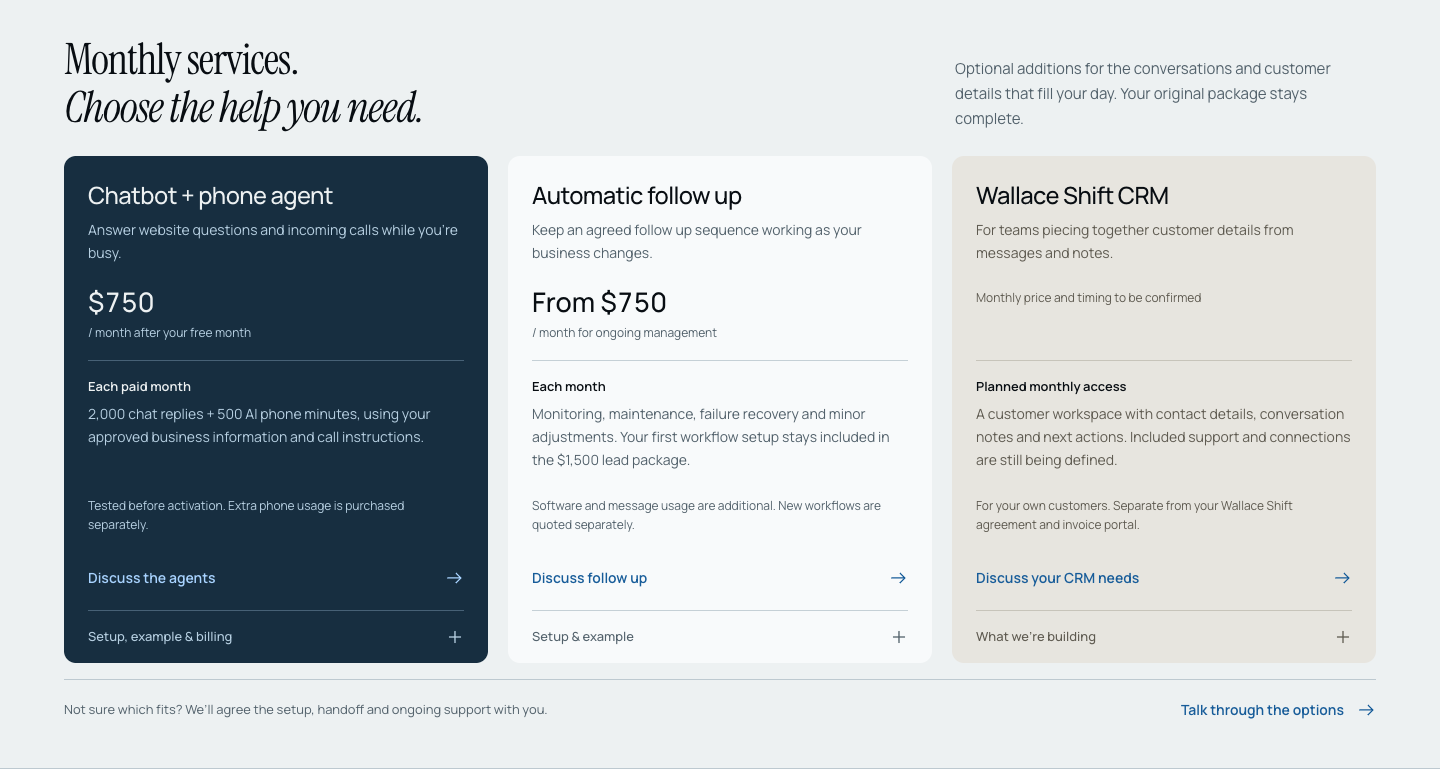
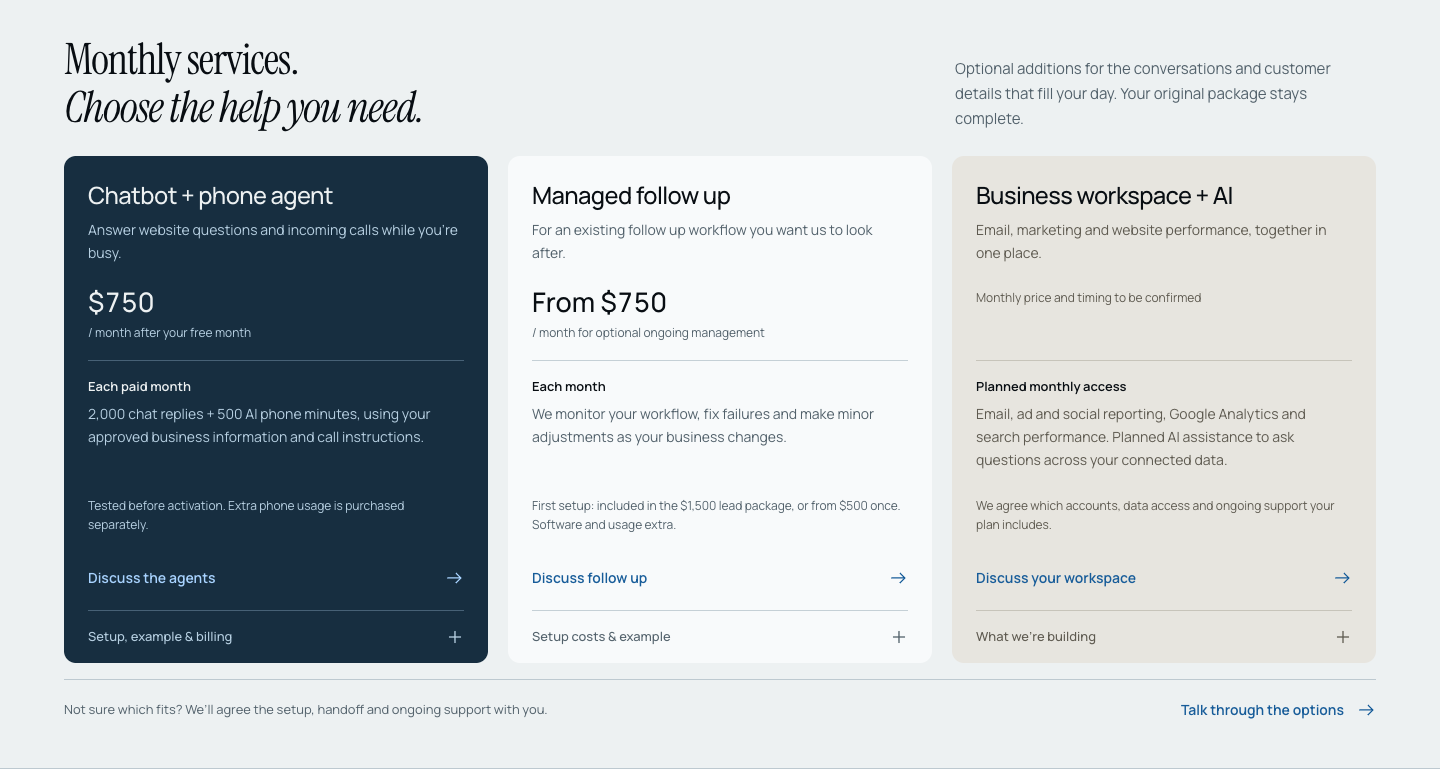
fix: distinguish follow-up setup from optional monthly management

diff --git a/prototypes/homepage/purchase/Upgrades.tsx b/prototypes/homepage/purchase/Upgrades.tsx
@@ -4,6 +4,7 @@ import { shiftHandoffHref } from '../../../src/lib/quizHandoff'
 import './upgrades.css'
 
 const managedAutomation = engagementGroups.find(group => group.id === 'automation')?.items.find(item => item.title === 'Managed automation')
+const followUpSetup = engagementGroups.find(group => group.id === 'automation')?.items.find(item => item.title === 'Follow-up setup')
 
 function Arrow() {
   return <svg width="20" height="20" viewBox="0 0 24 24" fill="none" stroke="currentColor" strokeWidth="1.5" aria-hidden="true"><path d="M4 12h16m-6-6 6 6-6 6" /></svg>
@@ -50,22 +51,24 @@ export default function Upgrades() {
           </article>
 
           <article className="monthly-services__tile" aria-labelledby="monthly-follow-up-heading">
-            <h3 id="monthly-follow-up-heading">Automatic follow up</h3>
-            <p className="monthly-services__need">Keep an agreed follow up sequence working as your business changes.</p>
+            <h3 id="monthly-follow-up-heading">Managed follow up</h3>
+            <p className="monthly-services__need">For an existing follow up workflow you want us to look after.</p>
             <div className="monthly-services__price">
               <strong>{managedAutomation ? `From $${managedAutomation.price}` : 'Quoted'}</strong>
-              <span>/ month for ongoing management</span>
+              <span>/ month for optional ongoing management</span>
             </div>
             <div className="monthly-services__value">
               <h4>Each month</h4>
-              <p>Monitoring, maintenance, failure recovery and minor adjustments. Your first workflow setup stays included in the $1,500 lead package.</p>
+              <p>We monitor your workflow, fix failures and make minor adjustments as your business changes.</p>
             </div>
-            <p className="monthly-services__boundary">Software and message usage are additional. New workflows are quoted separately.</p>
+            <p className="monthly-services__boundary">First setup: included in the $1,500 lead package, or {followUpSetup ? `from $${followUpSetup.price} once` : 'quoted separately'}. Software and usage extra.</p>
             <a className="monthly-services__link" href={shiftHandoffHref('automation-integration')}>Discuss follow up<Arrow /></a>
             <details className="monthly-services__details">
-              <summary>Setup & example<Plus /></summary>
+              <summary>Setup costs & example<Plus /></summary>
               <div className="monthly-services__detail-body">
-                <p>Before we start, we agree the messages, timing and when they stop, then test the workflow in compatible tools. Monthly management is optional.</p>
+                <p><strong>Setup without monthly management.</strong> Budget $500 to $1,000 once for a simple sequence in one existing tool, depending on scope. The $1,500 lead package already includes its first workflow setup.</p>
+                <p>After setup, you can manage it yourself. Software, message usage and any required hosting still have their own costs. The monthly management fee above applies only if you choose our ongoing monitoring and upkeep.</p>
+                <p>Setup includes agreed messages, timing, stop conditions, testing and a walkthrough for your team.</p>
                 <figure className="monthly-services__example">
                   <figcaption>Example sequence · illustrative</figcaption>
                   <ol className="monthly-services__sequence">
@@ -79,34 +82,28 @@ export default function Upgrades() {
             </details>
           </article>
 
-          <article className="monthly-services__tile monthly-services__tile--crm" aria-labelledby="monthly-crm-heading">
-            <h3 id="monthly-crm-heading">Wallace Shift CRM</h3>
-            <p className="monthly-services__need">For teams piecing together customer details from messages and notes.</p>
+          <article className="monthly-services__tile monthly-services__tile--workspace" aria-labelledby="monthly-workspace-heading">
+            <h3 id="monthly-workspace-heading">Business workspace + AI</h3>
+            <p className="monthly-services__need">Email, marketing and website performance, together in one place.</p>
             <div className="monthly-services__price">
               <span>Monthly price and timing to be confirmed</span>
             </div>
             <div className="monthly-services__value">
               <h4>Planned monthly access</h4>
-              <p>A customer workspace with contact details, conversation notes and next actions. Included support and connections are still being defined.</p>
+              <p>Email, ad and social reporting, Google Analytics and search performance. Planned AI assistance to ask questions across your connected data.</p>
             </div>
-            <p className="monthly-services__boundary">For your own customers. Separate from your Wallace Shift agreement and invoice portal.</p>
-            <a className="monthly-services__link" href={shiftHandoffHref('custom-web-app')}>Discuss your CRM needs<Arrow /></a>
+            <p className="monthly-services__boundary">We agree which accounts, data access and ongoing support your plan includes.</p>
+            <a className="monthly-services__link" href="/contact">Discuss your workspace<Arrow /></a>
             <details className="monthly-services__details">
               <summary>What we’re building<Plus /></summary>
               <div className="monthly-services__detail-body">
-                <p>CRM means customer relationship manager: one place to see who needs help, what has been discussed and what your team should do next.</p>
+                <p>We’re bringing email tools, paid advertising, social reporting, Google Analytics and Google Search Console into a shared workspace. The next step is an AI assistant that can answer questions using the information you connect.</p>
                 <figure className="monthly-services__example">
-                  <figcaption>Planned experience · fictional record</figcaption>
-                  <div className="monthly-services__record">
-                    <strong>Alex Morgan</strong><p>Asked about a kitchen remodel</p>
-                    <dl>
-                      <div><dt>Last conversation</dt><dd>Needs an estimate</dd></div>
-                      <div><dt>Next action</dt><dd>Arrange a site visit</dd></div>
-                      <div><dt>Assigned to</dt><dd>Jamie</dd></div>
-                    </dl>
-                  </div>
+                  <figcaption>Planned AI experience · illustrative</figcaption>
+                  <blockquote>“How are our ads and website performing this month?”</blockquote>
+                  <p>The intended assistant compares the available reports, highlights changes and points you to the data behind its answer.</p>
                 </figure>
-                <p>Share how you manage customers today. Availability, migration, connections and ongoing support will be confirmed before the CRM is offered.</p>
+                <p>Tell us which accounts you want to bring together. Supported connections, customer access and AI assistance will be confirmed before your service starts. Answers depend on the data available and the permissions you allow.</p>
               </div>
             </details>
           </article>

diff --git a/prototypes/homepage/purchase/upgrades.css b/prototypes/homepage/purchase/upgrades.css
@@ -6,7 +6,7 @@
 .monthly-services__grid { display: grid; grid-template-columns: repeat(3, minmax(0, 1fr)); gap: 20px; align-items: start; }
 .monthly-services__tile { --tile-bg: #f8fafb; --tile-muted: #52616b; --tile-ink: #080d12; --tile-line: #c5d0d6; --tile-link: #175c99; display: grid; grid-template-rows: minmax(32px, auto) minmax(64px, auto) minmax(84px, auto) minmax(124px, auto) minmax(70px, auto) minmax(48px, auto) auto; min-width: 0; background: var(--tile-bg); color: var(--tile-ink); padding: 24px 24px 0; border-radius: 12px; }
 .monthly-services__tile--agents { --tile-bg: #172e40; --tile-muted: #b7d0e2; --tile-ink: #edf1f2; --tile-line: #476176; --tile-link: #a8d3ff; }
-.monthly-services__tile--crm { --tile-bg: #e7e5df; --tile-muted: #5e5a50; --tile-line: #c7c4ba; }
+.monthly-services__tile--workspace { --tile-bg: #e7e5df; --tile-muted: #5e5a50; --tile-line: #c7c4ba; }
 .monthly-services .monthly-services__tile h3 { font: 500 clamp(18px, 1.65vw, 24px)/1.3 var(--font-sans); letter-spacing: -.025em; }
 .monthly-services__need { font-size: 14px; color: var(--tile-muted); padding-top: 6px; }
 .monthly-services__price { padding-top: 8px; }
@@ -27,6 +27,7 @@
 .monthly-services__details[open] .monthly-services__plus { display: none; }
 .monthly-services__detail-body { padding-block: 4px 24px; }
 .monthly-services .monthly-services__detail-body p { color: var(--tile-muted); font-size: 13px; padding: 0; }
+.monthly-services__detail-body > p + p { margin-top: 12px; }
 .monthly-services__example { margin: 20px 0; padding-block: 18px; border-block: 1px solid var(--tile-line); }
 .monthly-services__example figcaption { font-size: 12px; line-height: 1.5; color: var(--tile-muted); margin-bottom: 16px; }
 .monthly-services__example blockquote { margin: 0 0 14px; font: 400 28px/1.15 var(--font-serif); }
@@ -36,12 +37,6 @@
 .monthly-services__sequence li::before { content: ''; position: absolute; width: 7px; height: 7px; border-radius: 50%; background: var(--tile-link); left: -4px; top: 7px; }
 .monthly-services__sequence strong { display: block; font-size: 13px; font-weight: 600; line-height: 1.5; }
 .monthly-services__sequence span { display: block; font-size: 13px; line-height: 1.65; color: var(--tile-muted); margin-top: 4px; }
-.monthly-services__record > strong { font-size: 20px; font-weight: 500; }
-.monthly-services .monthly-services__record > p { margin-top: 4px; }
-.monthly-services__record dl { margin: 16px 0 0; }
-.monthly-services__record dl > div { padding-top: 12px; }
-.monthly-services__record dt { font-size: 12px; color: var(--tile-muted); }
-.monthly-services__record dd { margin: 3px 0 0; font-size: 14px; line-height: 1.5; }
 .monthly-services__footer { display: flex; align-items: center; justify-content: space-between; gap: 24px; padding: 8px 0 0; margin-top: 16px; border-top: 1px solid var(--monthly-line); }
 .monthly-services__footer p { font-size: 13px; color: var(--monthly-muted); max-width: 65ch; }
 .monthly-services__footer .monthly-services__link { flex-shrink: 0; }

diff --git a/prototypes/homepage/purchase/review/monthly-services-review.md b/prototypes/homepage/purchase/review/monthly-services-review.md
@@ -9,8 +9,8 @@ Keep exactly three services. No customer evidence establishes a distinct fourth 
 | Service | Customer problem and illustrative workflow | Setup versus monthly value | Evidence and availability boundary |
 | --- | --- | --- | --- |
 | Chatbot and phone agent | An owner cannot answer every inquiry. A visitor or caller asks a business question, provides details and reaches an agreed next step. | Setup establishes business information and handling rules. Monthly service provides the agreed chat and phone usage; the support allowance must be confirmed. | [AI subscription source](../../../../src/content/aiSubscriptionOffer.ts) defines $750 monthly, 500 phone minutes and 2,000 chat replies. Trial activation requires both services to be ready and customer confirmation. Commercial configuration is not proof of a completed live customer call or every integration working. |
-| Automatic follow up | An inquiry or estimate needs a next step without the owner remembering every message. An agreed sequence follows up, then stops or hands over when appropriate. | Setup defines triggers, timing, messages and stop conditions. Ongoing service covers monitoring, maintenance, failure recovery and minor adjustments to existing workflows. | [Managed automation source](../../../../src/content/pricing.ts) starts at $750/month, with software and usage costs separate. [The $1,500 lead-page package](../../../../src/content/contractorOffers.ts) already includes its first agreed workflow setup. This monthly service adds upkeep, not a second charge for that inclusion. New workflows and substantial changes need separate scope. |
-| Wallace Shift CRM | Customer details and next actions are scattered. A customer record brings the inquiry, notes and next step together for the team. | Planned monthly software access and support must be scoped when ready. Migration, connections, release date and pricing are not confirmed. | [The existing dashboard](../../../../src/roofing-dashboard/DashboardApp.tsx) explicitly uses fictional records and unsent demo actions. Reply365 contains customer-record implementation, but the audit found no proof of a released Wallace Shift CRM. Use planned-access language with timing and scope to be confirmed, distinct from the agreement and invoice portal. The prominent development label is omitted. |
+| Managed follow up | An inquiry or estimate needs a next step without the owner remembering every message. An agreed sequence follows up, then stops or hands over when appropriate. | Setup defines triggers, timing, messages and stop conditions. A small standalone setup in an existing tool starts at $500 once (budget $500–$1,000); the first setup is included in the $1,500 lead package. Optional monthly management covers monitoring, maintenance, failure recovery and minor adjustments. Software, usage and any required hosting remain separate when self-managed. | [Managed automation source](../../../../src/content/pricing.ts) starts at $750/month, with software and usage costs separate. [The $1,500 lead-page package](../../../../src/content/contractorOffers.ts) already includes its first agreed workflow setup. This monthly service adds upkeep, not a second charge for that inclusion. New workflows and substantial changes need separate scope. |
+| Business workspace + AI | Email, marketing accounts and website reports are scattered. Planned AI assistance compares connected sources in response to a business question. | Planned monthly workspace access; supported accounts, data access, AI assistance and ongoing support need an agreed scope. | [Dashboard handler](../../../../api/_lib/business-dashboard-handler.ts) currently requires owner access and generates a rules-based brief, with no AI model connected. [Google reporting](../../../../api/_lib/business-dashboard-google.ts) implements Analytics/Search Console; [channel reporting](../../../../api/_lib/business-dashboard-channels.ts) implements Google/Meta/LinkedIn Ads and Facebook/Instagram. The [mail workspace](../../../../src/mail/MailApp.tsx) handles composition and outgoing activity, not a synchronized inbox. Customer access and cross-source AI queries remain planned. |
 
 No actual customer-question dataset, inquiry export, provider invoice series, delivery-cost ledger or measured support-time sample was available to validate demand or profitability. The customer problems above are provisional scenarios, not findings from interviews. Do not publish fabricated testimonials, conversion gains, response guarantees or unsupported integration claims. Usage allowances and public service prices do not establish operating margin.
 
@@ -35,9 +35,9 @@ Recruit five independent business owners matching the intended audience. Show th
 | Criterion | Neutral task or question | Pass rule |
 | --- | --- | --- |
 | Optional monthly service | “What would you be adding, and how would you expect to pay for it?” | At least 4 of 5 independently identify optional ongoing services, separate from the base package. |
-| Appropriate service | Present three short situations: missed inquiries, an existing sequence that needs upkeep, and scattered customer information. Ask which service fits each and why. | At least 4 of 5 correctly match all three situations and can explain the recurring value. |
+| Appropriate service | Present three short situations: missed inquiries, an existing sequence that needs upkeep, and scattered email, advertising and website reports. Ask which service fits each and why. | At least 4 of 5 correctly match all three situations and can explain the recurring value. |
 | Next action | “You want help with one of these. Show what you would do next.” | At least 4 of 5 reach the existing discussion/contact route without coaching. |
-| CRM readiness | “Could you start using this CRM today? What would you need to find out?” | At least 4 of 5 recognize that availability, scope and price still require confirmation. |
+| Workspace scope | “What could the assistant answer, and what would need to be connected first?” | At least 4 of 5 recognize that answers depend on connected data, and access, scope and price still require confirmation. |
 
 Each criterion must pass separately; do not average scores across criteria. Also ask whether the first included follow-up setup would be charged again. Record confusion as a copy issue. A passing five-person test supports comprehension, not a statistically proven conversion increase. Later qualified inquiries and fulfillment records can inform commercial effectiveness.
 
@@ -58,13 +58,15 @@ Status: **Passed on the local preview, 17 November 2026.** This is separate from
 | Actual isolated preview entry compiles and passes targeted lint/type checks | Passed: TypeScript targets `prototypes/homepage/purchase/main.tsx`; ESLint targets `Upgrades.tsx`; standalone Vite build explicitly uses the preview HTML entry, with output in `/private/tmp/wallace-monthly-services-build`. |
 | Desktop and mobile rendered review; no clipping or horizontal overflow | Passed at 320, 390, 640, 768, 1024, 1280, 1366, 1440, 1920 and 3292px. Desktop, laptop, tablet and mobile screenshots inspected. All three tile tops align in column layouts. |
 | Keyboard focus, disclosure behavior and accessibility checks | Passed: each disclosure opens with Enter and closes with Space, with visible focus. All three expanded states and ten collapsed viewport widths have zero axe WCAG 2/2.1 A/AA violations. Closed neighboring tiles stay compact. Impeccable detector returned no findings. |
-| Contact links and intended fragment navigation | Passed: all three links open `/contact` with the appropriate existing `shift` key and populated message; shared link reaches `#questions`. No forms submitted or messages sent. No browser page errors. |
+| Contact links and intended fragment navigation | Passed: agent and follow-up links open `/contact` with the appropriate existing `shift` key and populated message; the workspace link opens the general `/contact` route; shared link reaches `#questions`. No forms submitted or messages sent. No browser page errors. |
 | Change review: only this section, its isolated files and review material; neighboring work preserved | Passed: isolated `Upgrades.tsx` and `upgrades.css`; `main.tsx` only adds the import and removes the old inline section. Byte comparison against the captured pre-edit file confirms the integration boundary. Concurrent Guarantee and other repository edits were preserved. |
 
-Implementation evidence for agents also includes Reply365’s `apps/app/src/lib/chat-reply.ts`, `chat-store.ts`, inbound Twilio voice route, and tenant-scoped lead records. These support approved-knowledge answers, metering and configured call handling; they do not prove a completed live customer call or that the planned Wallace Shift CRM has launched. The chat implementation does not independently book appointments or send email, and the examples make no such claims.
+Implementation evidence for agents also includes Reply365’s `apps/app/src/lib/chat-reply.ts`, `chat-store.ts`, inbound Twilio voice route, and tenant-scoped lead records. These support approved-knowledge answers, metering and configured call handling; they do not prove a completed live customer call or that the planned business workspace has launched for customers. The chat implementation does not independently book appointments or send email, and the examples make no such claims.
 
-Remaining limits: no physical-device or screen-reader user session, production delivery test, live call, customer comprehension session, operating-cost measurement or conversion experiment. This is a local preview change; nothing was deployed. CRM pricing, support, integrations and release timing remain undefined. Agent pricing/allowances and the managed automation starting price are read from the existing source of commercial terms; no new price is set here.
+Remaining limits: no physical-device or screen-reader user session, production delivery test, live call, customer comprehension session, operating-cost measurement or conversion experiment. This is a local preview change; nothing was deployed. Business workspace pricing, support, supported integrations and customer release timing remain undefined. Agent pricing/allowances and the managed automation starting price are read from the existing source of commercial terms; no new price is set here.
 
-Final copy check: the prominent “In development” CRM label has been removed. Planned monthly access and unconfirmed price/timing remain visible. Targeted lint and diff checks passed after this edit.
+Final positioning: the third service is a connected business workspace with planned AI assistance, matching the user’s email, advertising, social and Google reporting description. It is not presented as a customer-record CRM. The prominent development label remains omitted; planned monthly access and unconfirmed price/timing remain visible. The workspace CTA uses the existing general contact route to avoid a CRM-specific prefill.
 
-Suggested commit message: `feat: clarify monthly additional services in purchase preview`
+Pricing clarification: the monthly tile is named “Managed follow up” to identify what the $750 starting fee buys. The visible boundary shows one-time setup from $500 or inclusion in the lead package. Expanded copy explains setup-only budgeting and continuing provider costs without monthly management. No commercial price was changed.
+
+Suggested commit message: `fix: distinguish follow-up setup from optional monthly management`
